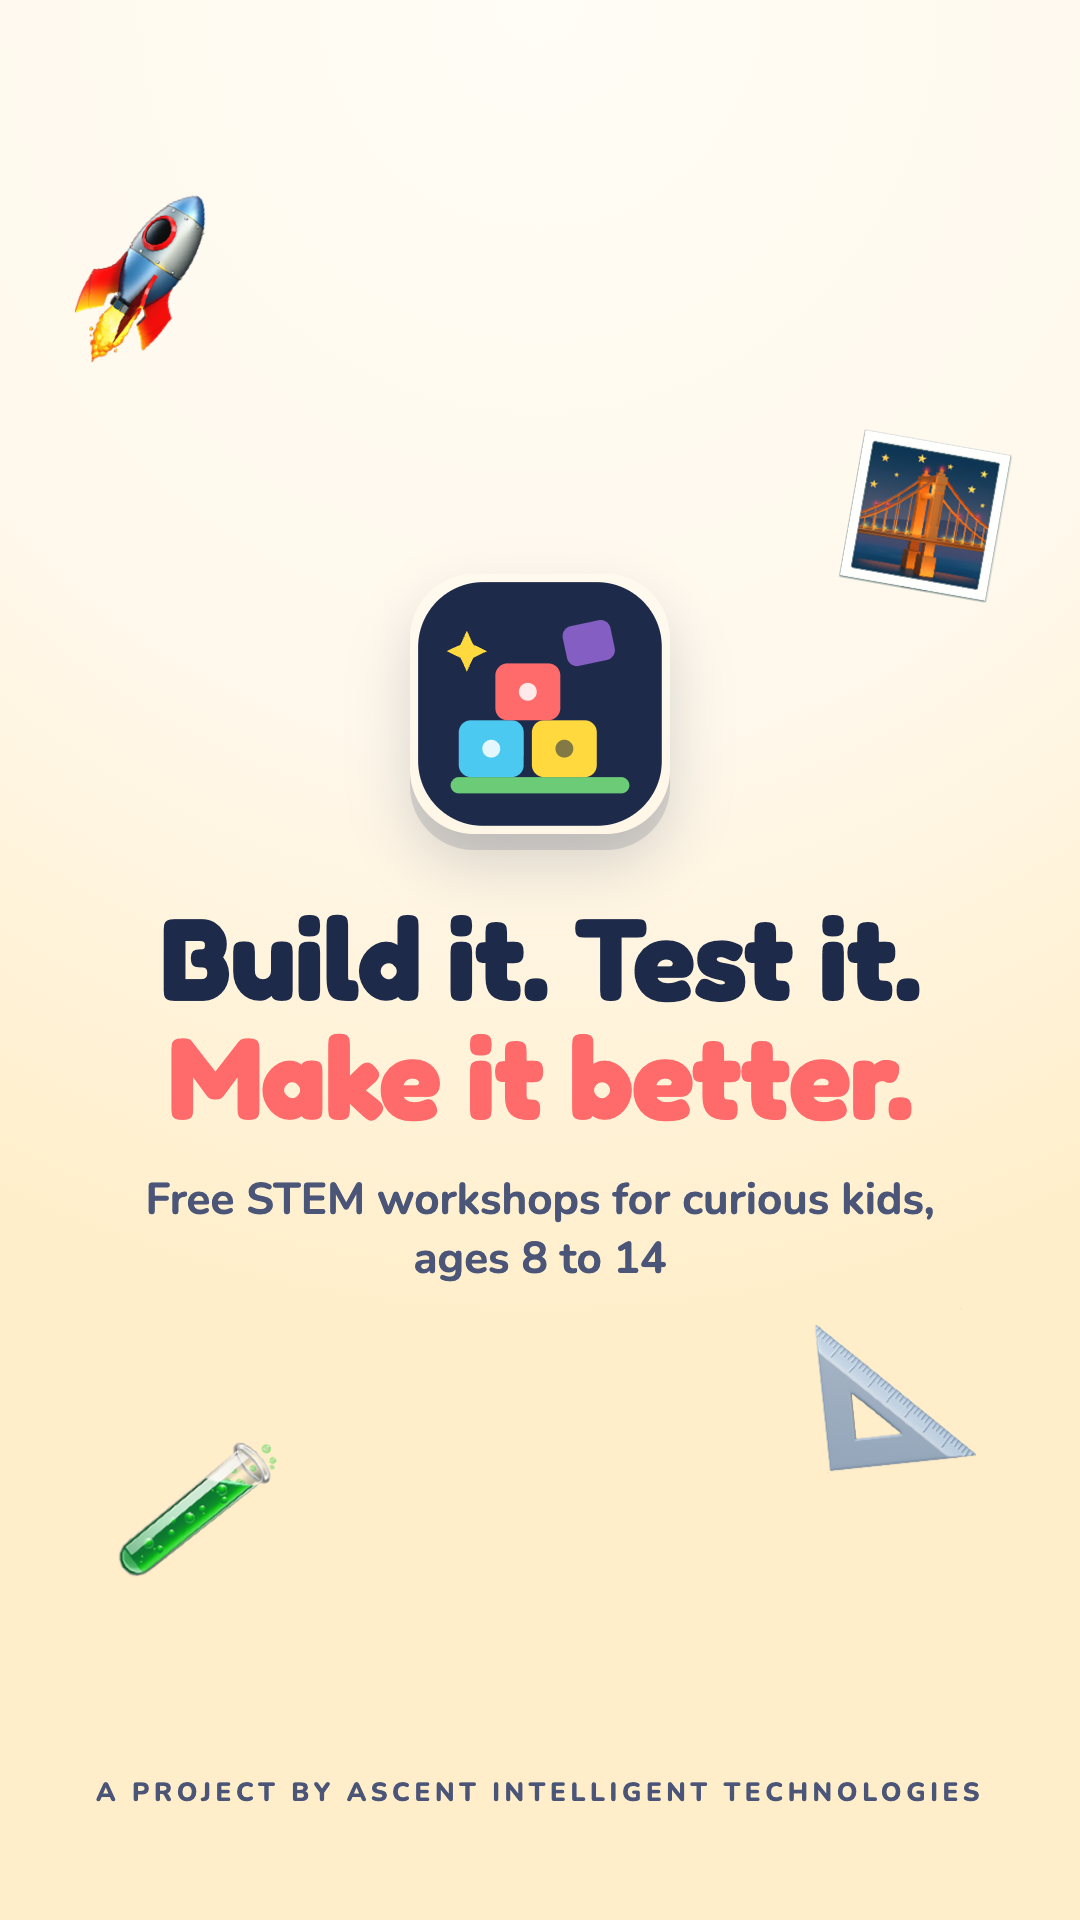
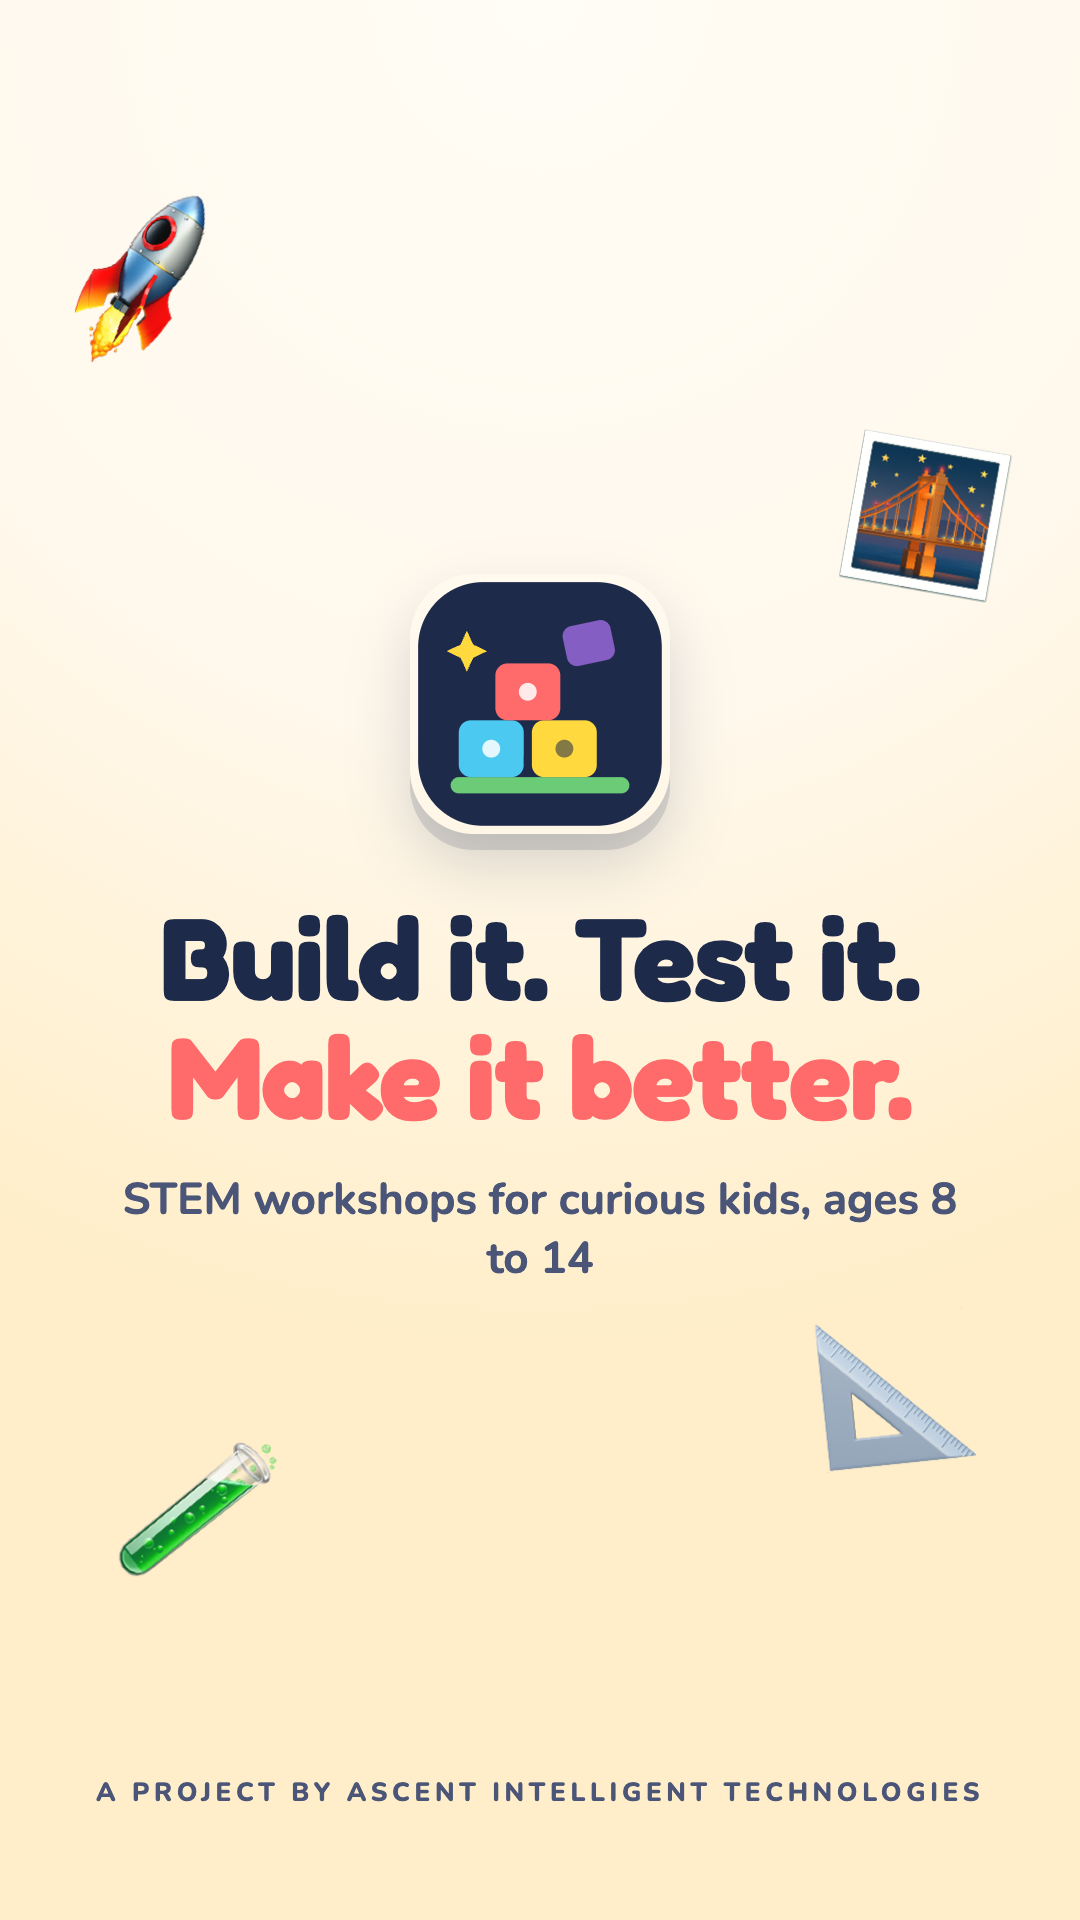
Launch posts: drop "free" from the visuals and copy; announce in-class workshops
Title card, home scene, end card and LinkedIn banner no longer say free;
the end card reads "Start today. No account needed." and carries an
"In-person, in-class workshops coming soon" pill, which the banner shows
as a badge. Caption and LinkedIn post say the same and invite schools and
clubs to ask for an early session.

Changed region(s): [[0.1222, 0.5938, 0.8861, 0.6875]]

diff --git a/marketing/launch-2026-10/linkedin-post.md b/marketing/launch-2026-10/linkedin-post.md
@@ -5,9 +5,9 @@ Attach `linkedin-banner-1200x627.png` (or the reel as a video). LinkedIn shows r
 
 ## Full post
 
-Free STEM workshops for curious kids. Live today: https://builders.ascent-i-tech.in 🚀
+STEM workshops for curious kids, live today: https://builders.ascent-i-tech.in 🚀
 
-At Ascent Intelligent Technologies we have been building something small and useful: Builders of Tomorrow, a free website where children aged 8 to 14 learn how engineers think by actually doing it.
+At Ascent Intelligent Technologies we have been building something small and useful: Builders of Tomorrow, a website where children aged 8 to 14 learn how engineers think by actually doing it.
 
 Every workshop is built around the engineering design cycle. Kids ask what the problem is, imagine several answers, plan one, create it, test it and improve it, then go round again. The site walks them through each step with a checklist, and the simulations are where the loop happens: in the Water Rocket Lab they choose a bottle, fins and a nose cone, pump up the pressure and launch a 3-D rocket; change one thing, launch again, and the fair-test habit builds itself. In Bridge Builder they glue craft sticks into triangles and load the bridge until it creaks, with the forces coloured so they can see which piece is pulled and which is pushed.
 
@@ -15,12 +15,14 @@ The worksheets are what make the learning stick. Each workshop has them at three
 
 What makes it work for grown-ups:
 
-• No ads, no cost, no account needed to play
+• No ads, no account needed to play
 • Worksheets for every workshop at three levels, so it fits a classroom or a kitchen table
 • Simulations are calibrated against real-world numbers and show their assumptions, so older kids can go deeper into the maths
 • Sign in with an email code (or Google) to save designs and worksheet answers; under-13s use a parent or teacher email
 
-If you teach, parent or mentor a young builder, I would love you to try it and tell me what breaks or what you would like to see next. More workshops are on the way.
+The online workshops are the first step. Physical, in-class workshops are coming soon, where children build and launch the real thing with us. If you run a school, a club or a learning centre and would like an early session, send me a message.
+
+If you teach, parent or mentor a young builder, I would love you to try the site and tell me what breaks or what you would like to see next. More workshops are on the way.
 
 👉 https://builders.ascent-i-tech.in
 
@@ -28,6 +30,6 @@ If you teach, parent or mentor a young builder, I would love you to try it and t
 
 ## Short version
 
-Builders of Tomorrow is live: free STEM workshops where kids aged 8 to 14 learn the engineering design cycle by designing water rockets and bridges in 3-D, testing them, and working through Explorer, Builder and Engineer worksheets. No account needed, no ads. A project by Ascent Intelligent Technologies for classrooms and kitchen tables alike. Try it: https://builders.ascent-i-tech.in 🚀
+Builders of Tomorrow is live: STEM workshops where kids aged 8 to 14 learn the engineering design cycle by designing water rockets and bridges in 3-D, testing them, and working through Explorer, Builder and Engineer worksheets. No account needed, no ads, and physical in-class workshops are coming soon. A project by Ascent Intelligent Technologies for classrooms and kitchen tables alike. Try it: https://builders.ascent-i-tech.in 🚀
 
 #STEM #EdTech #EngineeringForKids

diff --git a/marketing/launch-2026-10/instagram-caption.md b/marketing/launch-2026-10/instagram-caption.md
@@ -6,7 +6,7 @@
 
 🚀 Build it. Test it. Make it better.
 
-Builders of Tomorrow is a free online playground where kids aged 8 to 14 learn how engineers think by doing it. Every workshop follows the engineering design cycle: ask, imagine, plan, create, test, improve, then go round again. Kids design their own water rocket in 3-D, pump it up and launch it, then build a bridge out of craft sticks and load it until it creaks.
+Builders of Tomorrow is an online playground where kids aged 8 to 14 learn how engineers think by doing it. Every workshop follows the engineering design cycle: ask, imagine, plan, create, test, improve, then go round again. Kids design their own water rocket in 3-D, pump it up and launch it, then build a bridge out of craft sticks and load it until it creaks.
 
 The learning sticks because of the worksheets. Each workshop has Explorer, Builder and Engineer levels that ask kids to predict, measure, explain and improve, from "Rocket Detective: what makes it fly?" to a full Engineering Design Journal. Fill them in on screen or print them for the classroom.
 
@@ -14,6 +14,7 @@ The learning sticks because of the worksheets. Each workshop has Explorer, Build
 📝 Worksheets at three levels, on screen or on paper
 🧒 No account needed to play
 👨👩👧 Made for parents and teachers too
+🏫 Physical, in-class workshops coming soon
 
 Try it today 👉 builders.ascent-i-tech.in (link in bio)
 
@@ -25,4 +26,4 @@ A project by Ascent Intelligent Technologies.
 
 **Shorter alternative (for Stories or a pinned comment):**
 
-Free STEM workshops for curious kids 🚀🌉 Learn the engineering design cycle by designing rockets and bridges in 3-D, testing them and working through Explorer, Builder and Engineer worksheets. No account needed. builders.ascent-i-tech.in
+STEM workshops for curious kids 🚀🌉 Learn the engineering design cycle by designing rockets and bridges in 3-D, testing them and working through Explorer, Builder and Engineer worksheets. No account needed, and in-class workshops are coming soon. builders.ascent-i-tech.in
